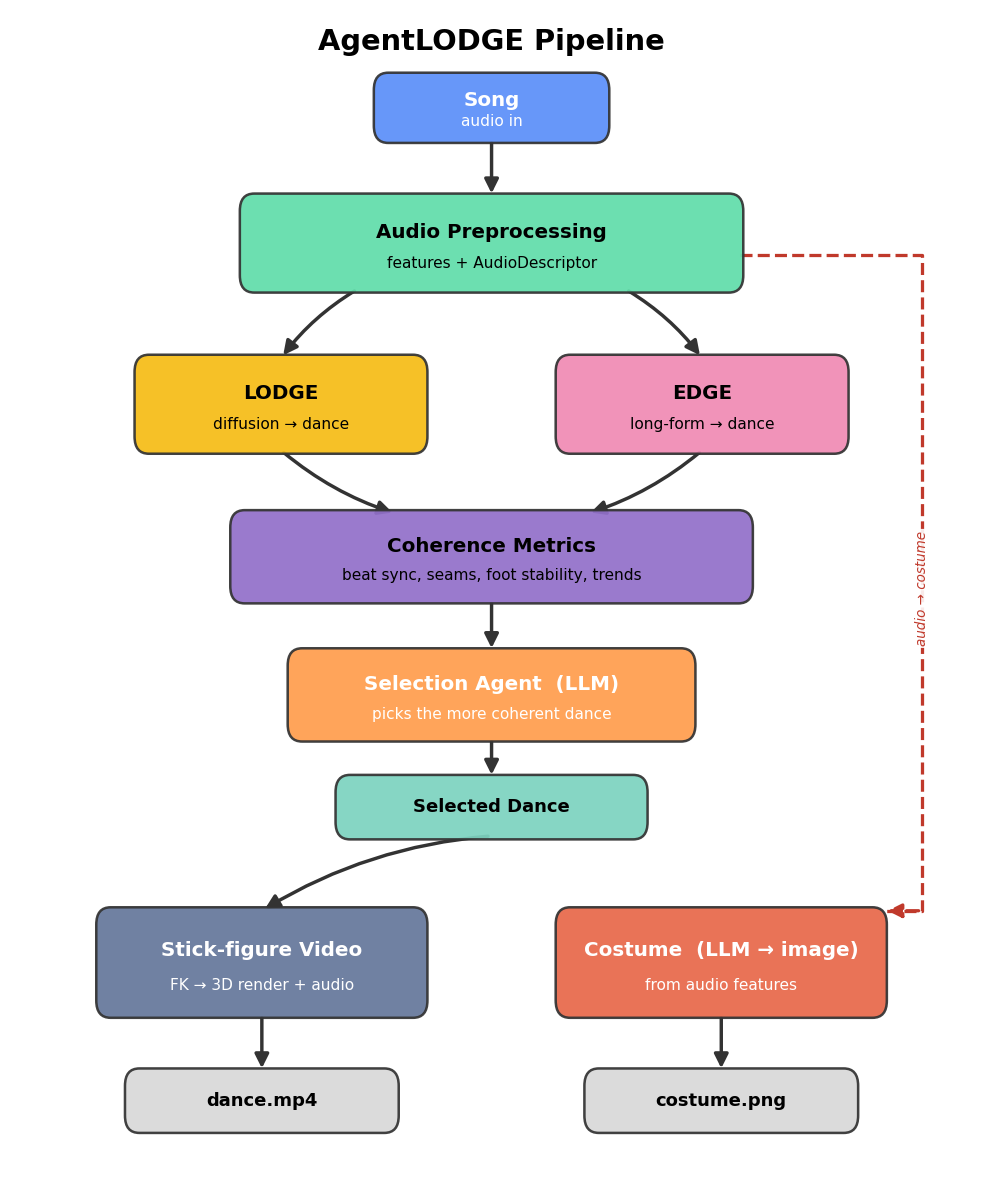
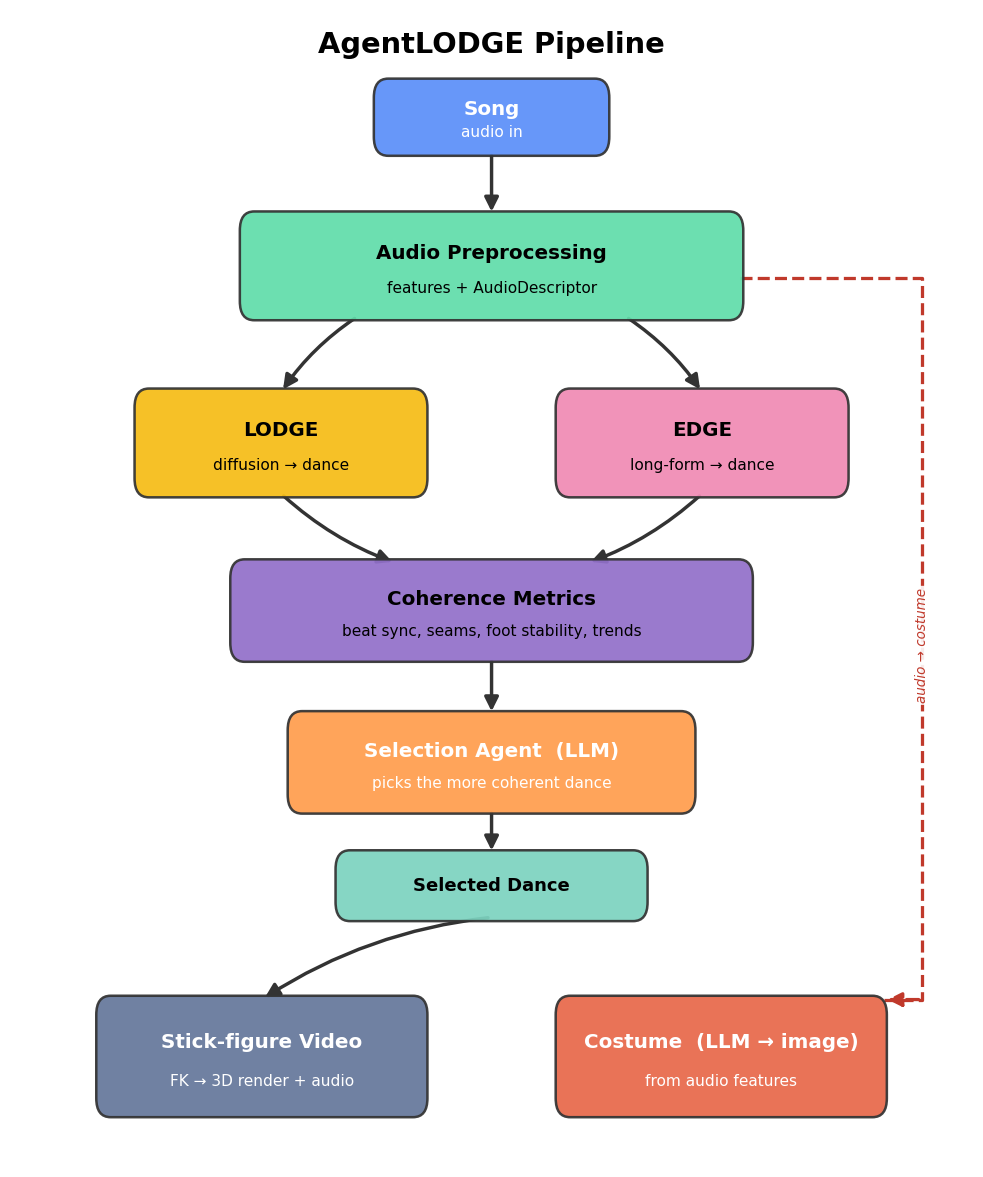
Simplify pipeline diagram: drop output-file boxes
Remove the concrete dance.mp4 / costume.png output nodes so the diagram stays abstract;
the Stick-figure Video and Costume stages are the terminal nodes. Tighten vertical bounds.

diff --git a/docs/make_pipeline_diagram.py b/docs/make_pipeline_diagram.py
@@ -7,7 +7,7 @@ from matplotlib.patches import FancyBboxPatch, FancyArrowPatch
 
 fig, ax = plt.subplots(figsize=(9.5, 11.5))
 ax.set_xlim(0, 100)
-ax.set_ylim(0, 100)
+ax.set_ylim(9, 100)
 ax.axis("off")
 
 C = {
@@ -83,8 +83,6 @@ b_vid = box(9, 13, 34, 9, "Stick-figure Video",
             "FK \u2192 3D render + audio", color=C["vid"], tc="white")
 b_cos = box(57, 13, 34, 9, "Costume  (LLM \u2192 image)",
             "from audio features", color=C["cos"], tc="white")
-b_mp4 = box(12, 3, 28, 5, "dance.mp4", color=C["out"], fs=10)
-b_png = box(60, 3, 28, 5, "costume.png", color=C["out"], fs=10)
 
 arr(bc(b_in), tc_(b_pre))
 arr((36, 76), tc_(b_lodge), rad=0.1)
@@ -94,8 +92,6 @@ arr(bc(b_edge), (60, 56.5), rad=-0.1)
 arr(bc(b_met), tc_(b_sel))
 arr(bc(b_sel), tc_(b_fmt))
 arr(bc(b_fmt), tc_(b_vid), rad=0.12)
-arr(bc(b_vid), tc_(b_mp4))
-arr(bc(b_cos), tc_(b_png))
 # audio features drive costume (clean right-margin channel)
 ortho([(76, 79), (95, 79), (95, 22), (91, 22)], color=COST_C,
       label="audio \u2192 costume", label_pt=(95, 50))